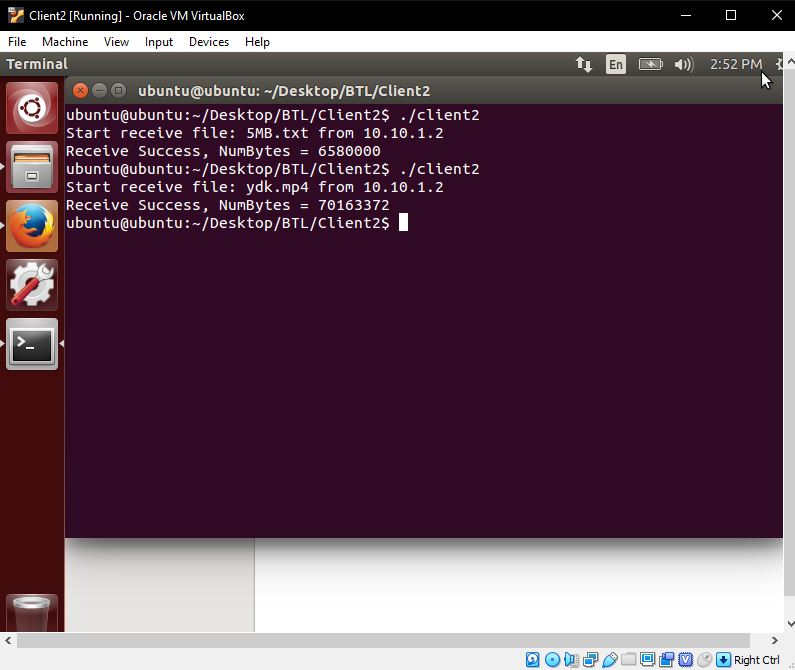
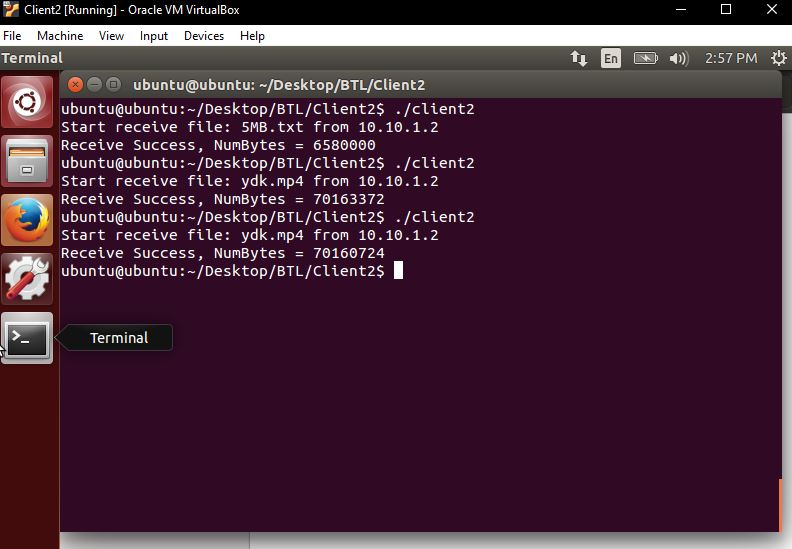
Update time

diff --git a/README.md b/README.md
@@ -8,7 +8,7 @@ Sau khi kết nối thì nhập tên file cần phân phối cho Client</p>
 <p>Sau khi Server có lệnh phân phối file Client1 bắt đầu nhận file do Server gửi.
 <br/>Sau khi nhận file từ Server xong Client bắt đầu gửi file cho Client2 và Client3 trong mạng
 <br/>Do băng thông trong mạng lớn nên quá trình gửi rất nhanh. Được tính dựa theo hàm date lúc trước khi chạy và sau khi chạy xong.
-<br/>Mất 26s cho việc truyền file ydk.mp4 có dung lượng 66MB</p>
+<br/>Mất 7s cho việc truyền file ydk.mp4 có dung lượng 66MB</p>
 <img src="Image/Client1.JPG">
 <p>Hình ảnh Client2 chờ file từ Client1 và nhận file hoàn thành</p> 
 <img src="Image/Client2.JPG">
